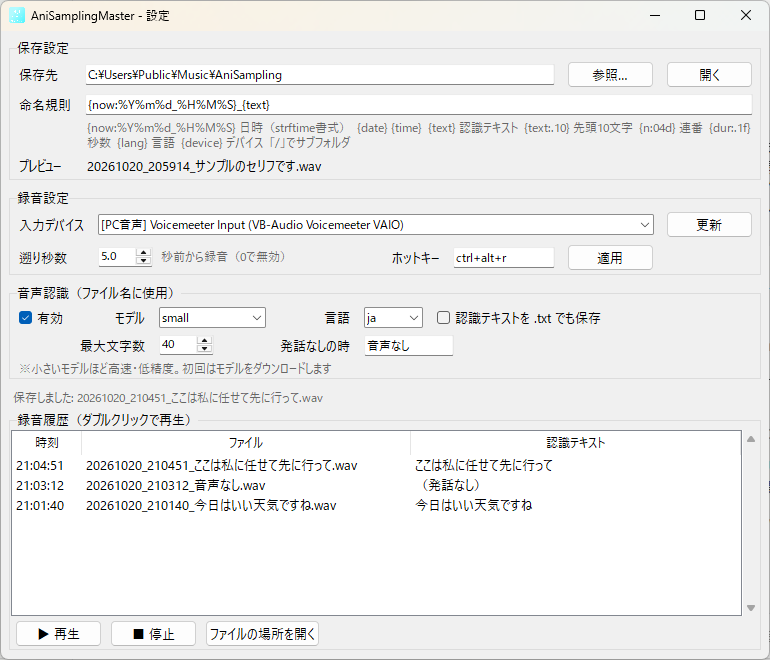
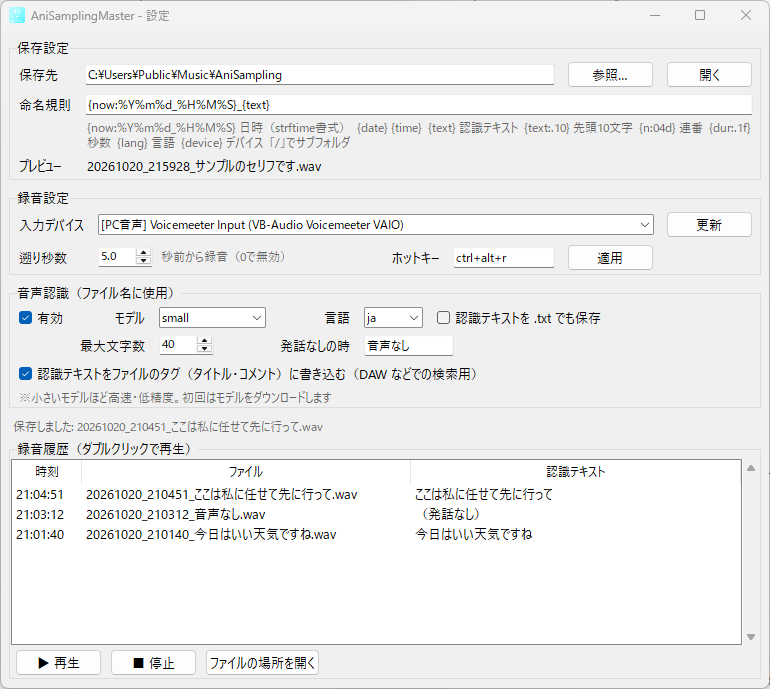
認識テキストを WAV のタグに埋め込む機能を追加
- tags.py: RIFF INFO（INAM/ICMT/ICRD/ISFT）と ID3v2.3（TIT2/COMM/TYER/TSSE）を書き込み
- INFO は data の後ろに置き、Windows ではシステムの文字コード（日本語版は CP932）で書く
  （Windows エクスプローラーで表示されることを確認）。ID3 は UTF-16 で文字化けしない
- 設定に「認識テキストをファイルのタグに書き込む」を追加（既定オン）
- README・技術ドキュメント・設定画面のスクリーンショットを更新

diff --git a/anisampler/tags.py b/anisampler/tags.py
@@ -1,0 +1,115 @@
+"""WAV にメタデータ（タグ）を埋め込む。
+
+DAW や素材管理ソフトで検索できるよう、2 種類のタグを同時に書き込む。
+  RIFF INFO : LIST/INFO チャンク（INAM=タイトル, ICMT=コメント, ICRD=日付, ISFT=ソフト名）
+              data チャンクの後ろに置く。Windows のエクスプローラーは fmt と data の間にある
+              INFO を読まず、文字列をシステムの文字コード（日本語版なら CP932）として解釈する。
+              そのため Windows ではシステムの文字コード、それ以外では UTF-8 で書き込む
+  ID3v2.3   : "id3 " チャンク（TIT2=タイトル, COMM=コメント, TYER=年, TSSE=ソフト名）
+              文字列は UTF-16（BOM 付き）で文字コードの曖昧さがない。ファイル末尾に置く
+"""
+from __future__ import annotations
+
+import os
+import struct
+import sys
+from datetime import datetime
+
+SOFTWARE = "AniSamplingMaster"
+_ISO639_2 = {"ja": "jpn", "en": "eng", "zh": "zho", "ko": "kor"}
+
+
+def _info_encoding() -> str:
+    if sys.platform == "win32":
+        try:
+            import ctypes
+            return f"cp{ctypes.windll.kernel32.GetACP()}"  # 日本語版 Windows では cp932
+        except Exception:
+            pass
+    return "utf-8"
+
+
+INFO_ENCODING = _info_encoding()
+
+
+# ---------------------------------------------------------------- RIFF
+def _read_chunks(data: bytes) -> list[tuple[bytes, bytes]]:
+    if data[:4] != b"RIFF" or data[8:12] != b"WAVE":
+        raise ValueError("WAV ファイルではありません")
+    chunks, pos = [], 12
+    while pos + 8 <= len(data):
+        cid, size = data[pos:pos + 4], struct.unpack("<I", data[pos + 4:pos + 8])[0]
+        chunks.append((cid, data[pos + 8:pos + 8 + size]))
+        pos += 8 + size + (size & 1)  # チャンクは偶数バイト境界にそろえる
+    return chunks
+
+
+def _chunk(cid: bytes, body: bytes) -> bytes:
+    return cid + struct.pack("<I", len(body)) + body + (b"\x00" if len(body) & 1 else b"")
+
+
+def _info_chunk(fields: dict[bytes, str]) -> bytes:
+    body = b"INFO"
+    for key, value in fields.items():
+        if value:
+            # システムの文字コードで表せない文字（絵文字など）は ? になる。ID3 側には元の文字のまま入る
+            body += _chunk(key, value.encode(INFO_ENCODING, errors="replace") + b"\x00")
+    return _chunk(b"LIST", body)
+
+
+# ---------------------------------------------------------------- ID3v2.3
+def _utf16(text: str) -> bytes:
+    return text.encode("utf-16")  # BOM 付き
+
+
+def _id3_frame(fid: bytes, body: bytes) -> bytes:
+    return fid + struct.pack(">I", len(body)) + b"\x00\x00" + body
+
+
+def _id3_text(fid: bytes, text: str) -> bytes:
+    return _id3_frame(fid, b"\x01" + _utf16(text) + b"\x00\x00")
+
+
+def _id3_comment(text: str, lang: str) -> bytes:
+    # エンコーディング(1) + 言語(3) + 説明（空）+ 終端 + 本文
+    return _id3_frame(b"COMM", b"\x01" + lang.encode("ascii") + _utf16("") + b"\x00\x00"
+                      + _utf16(text) + b"\x00\x00")
+
+
+def _syncsafe(n: int) -> bytes:
+    return bytes(((n >> 21) & 0x7F, (n >> 14) & 0x7F, (n >> 7) & 0x7F, n & 0x7F))
+
+
+def _id3_chunk(title: str, comment: str, date: datetime, language: str) -> bytes:
+    frames = b""
+    if title:
+        frames += _id3_text(b"TIT2", title)
+    if comment:
+        frames += _id3_comment(comment, _ISO639_2.get(language, "und"))
+    frames += _id3_text(b"TYER", date.strftime("%Y"))
+    frames += _id3_text(b"TSSE", SOFTWARE)
+    tag = b"ID3" + b"\x03\x00" + b"\x00" + _syncsafe(len(frames)) + frames
+    return _chunk(b"id3 ", tag)
+
+
+# ---------------------------------------------------------------- 書き込み
+def write_tags(path: str, *, title: str, comment: str, date: datetime, language: str = "") -> None:
+    """WAV ファイルにタグを書き込む（既存の INFO / ID3 タグは置き換える）。"""
+    with open(path, "rb") as f:
+        chunks = _read_chunks(f.read())
+
+    def is_old_tag(cid: bytes, body: bytes) -> bool:
+        return (cid == b"LIST" and body[:4] == b"INFO") or cid.lower() == b"id3 "
+
+    body = b"WAVE"
+    for cid, data in chunks:
+        if not is_old_tag(cid, data):
+            body += _chunk(cid, data)
+    body += _info_chunk({b"INAM": title, b"ICMT": comment,
+                         b"ICRD": date.strftime("%Y-%m-%d"), b"ISFT": SOFTWARE})
+    body += _id3_chunk(title, comment, date, language)
+
+    tmp = path + ".tagtmp"
+    with open(tmp, "wb") as f:
+        f.write(b"RIFF" + struct.pack("<I", len(body)) + body)
+    os.replace(tmp, path)

diff --git a/anisampler/gui.py b/anisampler/gui.py
@@ -16,6 +16,7 @@ from . import config
 from .audio import Device, Player, Recorder
 from .hotkey import GlobalHotkey, HotkeyError
 from .naming import build_filename, prepare_text, unique_path
+from .tags import write_tags
 from .transcriber import LANGUAGES, MODELS, Transcriber
 
 TEMPLATE_HELP = (
@@ -105,6 +106,7 @@ class App:
         self.v_maxlen = tk.StringVar(value=str(c["max_text_len"]))
         self.v_fallback = tk.StringVar(value=c["fallback_text"])
         self.v_savetxt = tk.BooleanVar(value=c["save_txt"])
+        self.v_tags = tk.BooleanVar(value=c["embed_tags"])
         self.v_hotkey = tk.StringVar(value=c["hotkey"])
         self.v_topmost = tk.BooleanVar(value=c["topmost"])
         self.v_preview = tk.StringVar()
@@ -207,8 +209,10 @@ class App:
         ttk.Spinbox(f, from_=0, to=150, width=6, textvariable=self.v_maxlen).grid(row=1, column=2, sticky="w", **pad)
         ttk.Label(f, text="発話なしの時").grid(row=1, column=3, sticky="e", **pad)
         ttk.Entry(f, textvariable=self.v_fallback, width=14).grid(row=1, column=4, columnspan=2, sticky="w", **pad)
+        ttk.Checkbutton(f, text="認識テキストをファイルのタグ（タイトル・コメント）に書き込む（DAW などでの検索用）",
+                        variable=self.v_tags).grid(row=2, column=0, columnspan=6, sticky="w", **pad)
         ttk.Label(f, text="※小さいモデルほど高速・低精度。初回はモデルをダウンロードします",
-                  style="Hint.TLabel").grid(row=2, column=0, columnspan=6, sticky="w", padx=6)
+                  style="Hint.TLabel").grid(row=3, column=0, columnspan=6, sticky="w", padx=6)
 
         ttk.Label(win, textvariable=self.v_status, style="Hint.TLabel").pack(fill="x", padx=10, pady=(4, 0))
 
@@ -328,6 +332,7 @@ class App:
             max_text_len=int(self._num(self.v_maxlen, 40, 0, 150)),
             fallback_text=self.v_fallback.get(),
             save_txt=self.v_savetxt.get(),
+            embed_tags=self.v_tags.get(),
             hotkey=self.v_hotkey.get(),
             topmost=self.v_topmost.get(),
         )
@@ -449,7 +454,7 @@ class App:
         meta.update(
             dur=dur, n=cfg["counter"],
             settings={k: cfg[k] for k in ("out_dir", "template", "recognize", "model", "language",
-                                          "max_text_len", "fallback_text", "save_txt")},
+                                          "max_text_len", "fallback_text", "save_txt", "embed_tags")},
         )
         cfg["counter"] += 1
         self._save_cfg()
@@ -490,7 +495,7 @@ class App:
                     err = f"音声認識に失敗: {e}"
             try:
                 path = self._finalize(job, text, lang)
-                self.ui_q.put(("saved", job["iid"], path, text, err))
+                self.ui_q.put(("saved", job["iid"], path, text, err or job.get("warning")))
             except Exception as e:
                 self.ui_q.put(("saved", job["iid"], job["tmp"], text, f"保存に失敗: {e}"))
         self.ui_q.put(("worker_done",))
@@ -518,6 +523,11 @@ class App:
             rel = build_filename(config.DEFAULTS["template"], **kwargs)
         path = unique_path(s["out_dir"], rel)
         os.makedirs(os.path.dirname(path), exist_ok=True)
+        if s["embed_tags"]:
+            try:
+                write_tags(job["tmp"], title=text, comment=text, date=job["started"], language=lang)
+            except Exception as e:  # タグが書けなくても録音ファイル自体は保存する
+                job["warning"] = f"タグを書き込めませんでした: {e}"
         os.replace(job["tmp"], path)
         if s["save_txt"] and text:
             with open(os.path.splitext(path)[0] + ".txt", "w", encoding="utf-8") as fp:

diff --git a/anisampler/config.py b/anisampler/config.py
@@ -18,6 +18,7 @@ DEFAULTS = {
     "max_text_len": 40,
     "fallback_text": "音声なし",
     "save_txt": False,
+    "embed_tags": True,
     "hotkey": "ctrl+alt+r",
     "counter": 1,
     "topmost": False,

diff --git a/README.md b/README.md
@@ -20,6 +20,8 @@
 - **セリフがそのままファイル名に**
   録音した音を自動で聞き取り、`20261020_210451_ここは私に任せて先に行って.wav` のような名前で保存します。
   インターネットに音声を送らず、パソコンの中だけで処理します。
+- **DAW などでセリフを検索できる**
+  聞き取ったセリフを、ファイルの「タイトル」と「コメント」にも書き込みます。タグに対応したソフトで、セリフの言葉から音を探せます。
 - **小さな画面で邪魔にならない**
   画面の端に置いておけるコンパクトなウィンドウです。「最前面」にチェックを入れると、ほかのウィンドウの上に表示され続けます。
 - **キーボードからも操作できる**
@@ -107,6 +109,7 @@ Windows ではスタートメニューからも起動できます。
 | **ホットキー** | 録音の開始・停止に使うキーです。`ctrl+alt+r` や `f9` のように入力して「適用」を押します |
 | **最大文字数** | ファイル名に使うセリフの最大文字数です |
 | **発話なしの時** | セリフが入っていなかったときに、セリフの代わりに使う言葉です |
+| **タグに書き込む** | 聞き取ったセリフを、ファイルのタイトルとコメントにも書き込みます（[DAW などでセリフを検索する](#daw-などでセリフを検索する)） |
 
 **録音履歴**では、起動してから録音したファイルの一覧が見られます。ダブルクリックすると再生します。
 
@@ -134,6 +137,14 @@ Windows ではスタートメニューからも起動できます。
 
 「プレビュー」の欄に、実際のファイル名の見本が表示されます。
 同じ名前のファイルがすでにある場合は、上書きせずに `_2` `_3` を付けて保存します。
+
+### DAW などでセリフを検索する
+
+⚙ の「認識テキストをファイルのタグ（タイトル・コメント）に書き込む」がオン（最初の設定）のとき、聞き取ったセリフを WAV ファイルの **タイトル** と **コメント** に書き込みます。
+タグの表示や検索に対応した DAW や素材管理ソフトなら、セリフの言葉で録音したファイルを探せます。
+
+- Windows では、ファイルを右クリック →「プロパティ」→「詳細」タブで、タイトルとコメントを確認できます
+- タグを読まないソフトでも、ファイル名にセリフが入っている（最初の設定）ので、ファイル名で検索できます
 
 ### 聞き取りの精度を上げる
 
